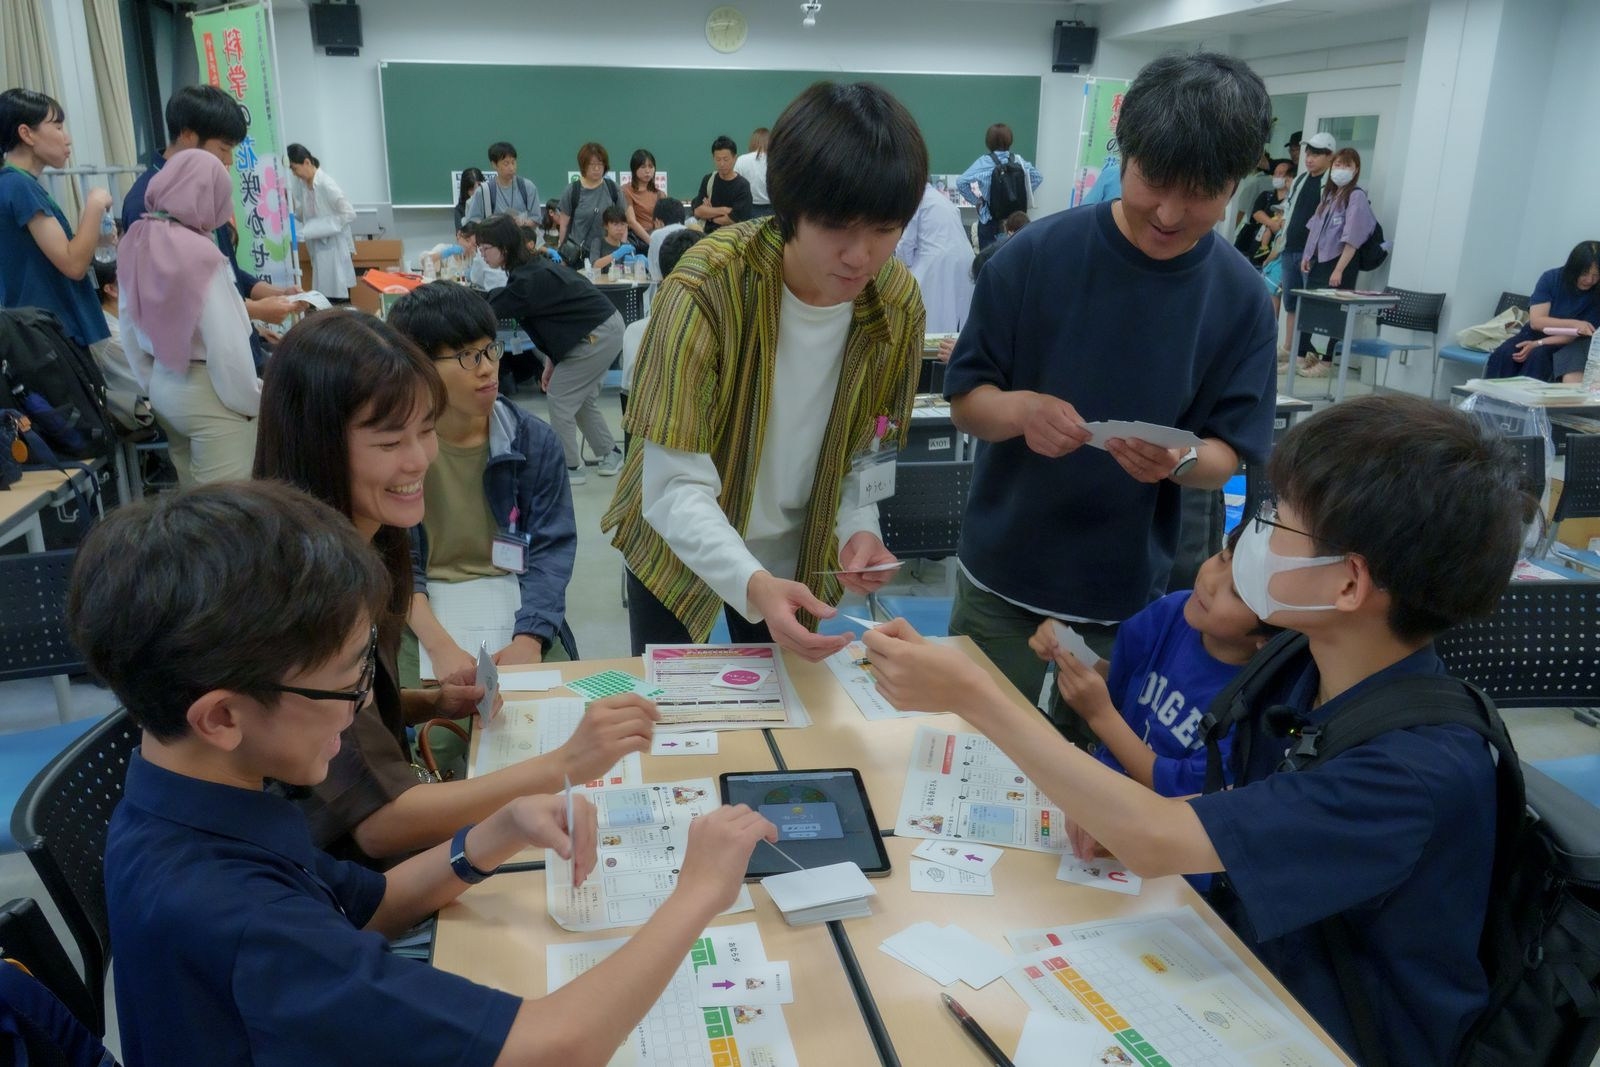
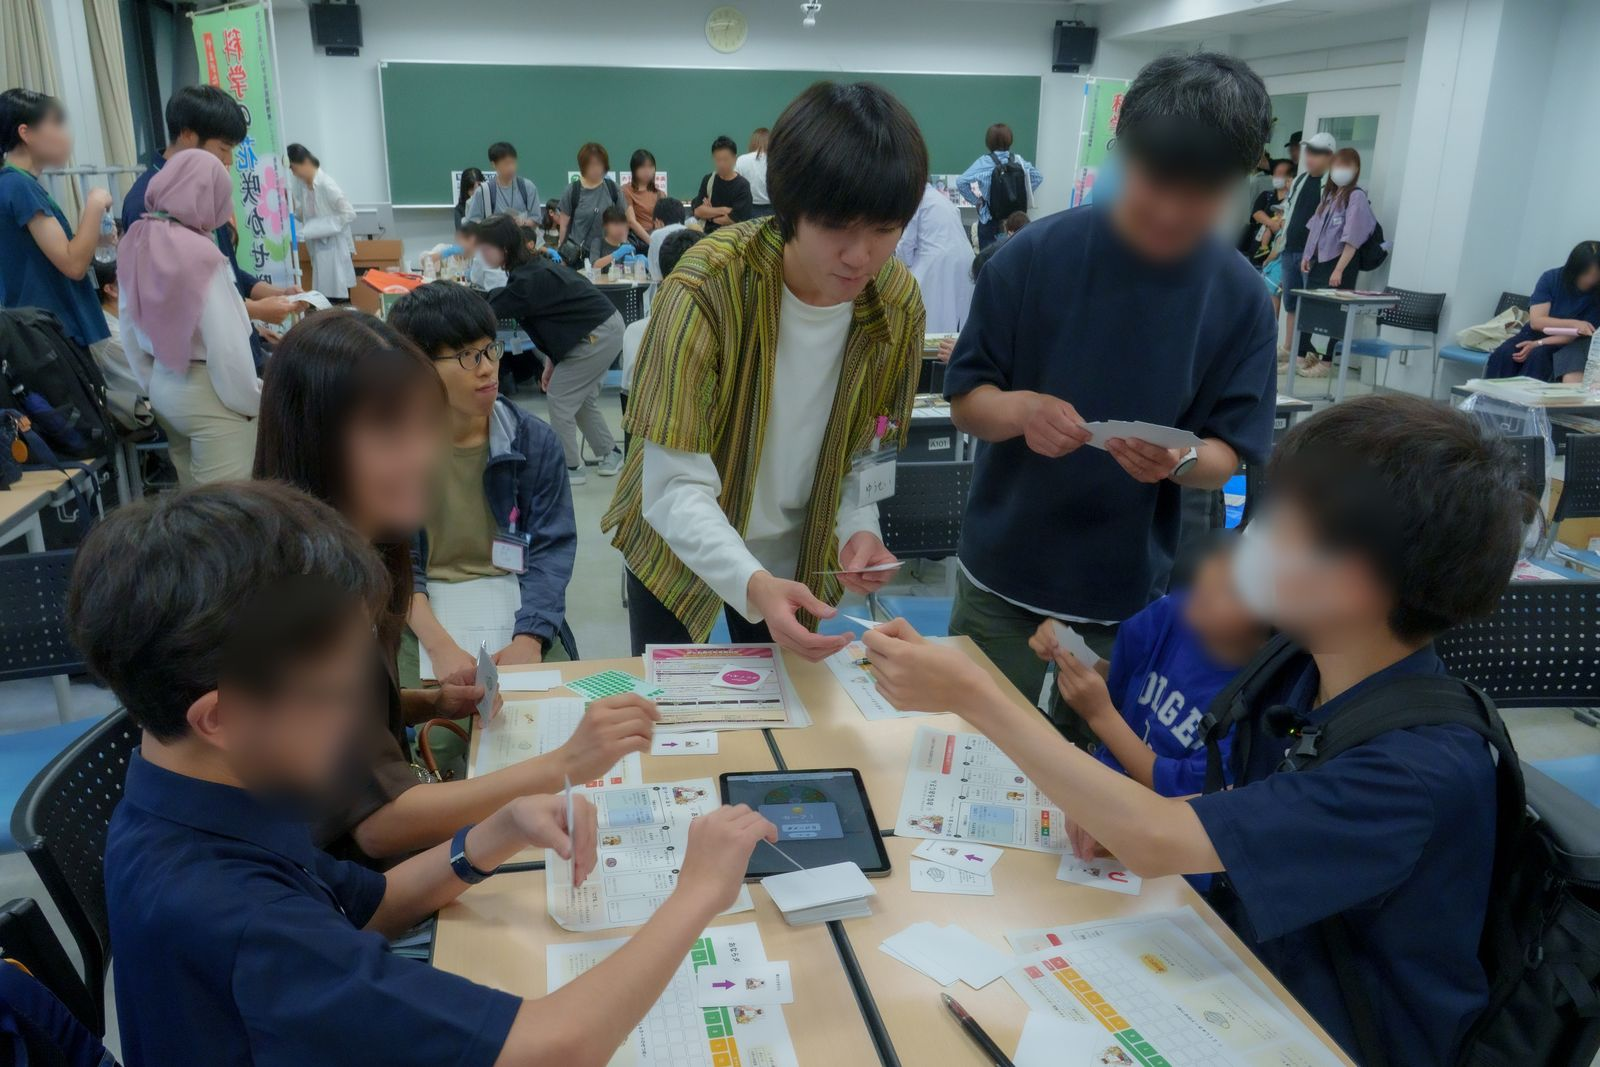
公開画像2点を顔加工版に差し替え、応援コメントの人名を修正
- boardgame.jpg / boardgame2.jpg を、来場者（子ども・保護者）の顔にぼかしを入れた版に差し替え。大学基金の掲載基準に合わせたもの
- 阿部様コメント中の「斉藤さん」を「齋藤さん」に修正

diff --git a/full/index.html b/full/index.html
@@ -1042,7 +1042,7 @@ main#contents{max-width:1160px;margin:0 auto;padding:30px 20px 60px;}
     <div class="pv-supporter__body">
       <p class="pv-supporter__name">阿部 乳坊</p>
       <p class="pv-supporter__affil">美術家（台湾を拠点に活動）</p>
-      <p class="pv-supporter__comment">宮岸さんとの最初の出会いは、2025年の福島でした。廃炉を請け負う会社へのインタビューなどを通して、震災と原子力災害を経た福島の変化と現状を知る旅でした。車での移動中、宮岸さんや斉藤さんに核分裂や核融合について率直な質問を重ね、一つひとつ真摯に答えていただいたことが、とても印象に残っています。<br>この旅は、2013年から共同で活動している「差の湯プロジェクト」を通じて、北海道大学CoSTEPの奥本素子さんにお声がけいただき実現したものでした。「差の湯」は、研究者や専門家を招き、少人数での対話を通して科学を学び、互いの「差」を楽しむ場を目指しています。<br>科学や専門的な知識を、専門家だけのものにせず、子どもたちをはじめ、より多くの人に開いていく。宮岸さんたちの活動には、科学を別の角度から捉え直し、人と科学との新しい接点をつくろうとする姿勢を感じています。<br>美術もまた、普段は見えにくいものや、難しく感じられることを、別の視点や体験を通して人に届けることができます。そうした意味で、科学と芸術には、異なる領域でありながら、世界を新しい角度から見せるという共通点があるように思います。<br>これからも宮岸さんたちが、科学の面白さや可能性をさまざまな形で社会へ届けていく活動を、ひとりの美術家として応援しています。</p>
+      <p class="pv-supporter__comment">宮岸さんとの最初の出会いは、2025年の福島でした。廃炉を請け負う会社へのインタビューなどを通して、震災と原子力災害を経た福島の変化と現状を知る旅でした。車での移動中、宮岸さんや齋藤さんに核分裂や核融合について率直な質問を重ね、一つひとつ真摯に答えていただいたことが、とても印象に残っています。<br>この旅は、2013年から共同で活動している「差の湯プロジェクト」を通じて、北海道大学CoSTEPの奥本素子さんにお声がけいただき実現したものでした。「差の湯」は、研究者や専門家を招き、少人数での対話を通して科学を学び、互いの「差」を楽しむ場を目指しています。<br>科学や専門的な知識を、専門家だけのものにせず、子どもたちをはじめ、より多くの人に開いていく。宮岸さんたちの活動には、科学を別の角度から捉え直し、人と科学との新しい接点をつくろうとする姿勢を感じています。<br>美術もまた、普段は見えにくいものや、難しく感じられることを、別の視点や体験を通して人に届けることができます。そうした意味で、科学と芸術には、異なる領域でありながら、世界を新しい角度から見せるという共通点があるように思います。<br>これからも宮岸さんたちが、科学の面白さや可能性をさまざまな形で社会へ届けていく活動を、ひとりの美術家として応援しています。</p>
       <p class="pv-supporter__credit">写真提供　台北国際芸術村／写真撮影　Sasha Chen</p>
     </div>
   </div>

diff --git a/index.html b/index.html
@@ -1023,7 +1023,7 @@ main#contents{max-width:1160px;margin:0 auto;padding:30px 20px 60px;}
     <div class="pv-supporter__body">
       <p class="pv-supporter__name">阿部 乳坊</p>
       <p class="pv-supporter__affil">美術家（台湾を拠点に活動）</p>
-      <p class="pv-supporter__comment">宮岸さんとの最初の出会いは、2025年の福島でした。廃炉を請け負う会社へのインタビューなどを通して、震災と原子力災害を経た福島の変化と現状を知る旅でした。車での移動中、宮岸さんや斉藤さんに核分裂や核融合について率直な質問を重ね、一つひとつ真摯に答えていただいたことが、とても印象に残っています。<br>この旅は、2013年から共同で活動している「差の湯プロジェクト」を通じて、北海道大学CoSTEPの奥本素子さんにお声がけいただき実現したものでした。「差の湯」は、研究者や専門家を招き、少人数での対話を通して科学を学び、互いの「差」を楽しむ場を目指しています。<br>科学や専門的な知識を、専門家だけのものにせず、子どもたちをはじめ、より多くの人に開いていく。宮岸さんたちの活動には、科学を別の角度から捉え直し、人と科学との新しい接点をつくろうとする姿勢を感じています。<br>美術もまた、普段は見えにくいものや、難しく感じられることを、別の視点や体験を通して人に届けることができます。そうした意味で、科学と芸術には、異なる領域でありながら、世界を新しい角度から見せるという共通点があるように思います。<br>これからも宮岸さんたちが、科学の面白さや可能性をさまざまな形で社会へ届けていく活動を、ひとりの美術家として応援しています。</p>
+      <p class="pv-supporter__comment">宮岸さんとの最初の出会いは、2025年の福島でした。廃炉を請け負う会社へのインタビューなどを通して、震災と原子力災害を経た福島の変化と現状を知る旅でした。車での移動中、宮岸さんや齋藤さんに核分裂や核融合について率直な質問を重ね、一つひとつ真摯に答えていただいたことが、とても印象に残っています。<br>この旅は、2013年から共同で活動している「差の湯プロジェクト」を通じて、北海道大学CoSTEPの奥本素子さんにお声がけいただき実現したものでした。「差の湯」は、研究者や専門家を招き、少人数での対話を通して科学を学び、互いの「差」を楽しむ場を目指しています。<br>科学や専門的な知識を、専門家だけのものにせず、子どもたちをはじめ、より多くの人に開いていく。宮岸さんたちの活動には、科学を別の角度から捉え直し、人と科学との新しい接点をつくろうとする姿勢を感じています。<br>美術もまた、普段は見えにくいものや、難しく感じられることを、別の視点や体験を通して人に届けることができます。そうした意味で、科学と芸術には、異なる領域でありながら、世界を新しい角度から見せるという共通点があるように思います。<br>これからも宮岸さんたちが、科学の面白さや可能性をさまざまな形で社会へ届けていく活動を、ひとりの美術家として応援しています。</p>
       <p class="pv-supporter__credit">写真提供　台北国際芸術村／写真撮影　Sasha Chen</p>
     </div>
   </div>
